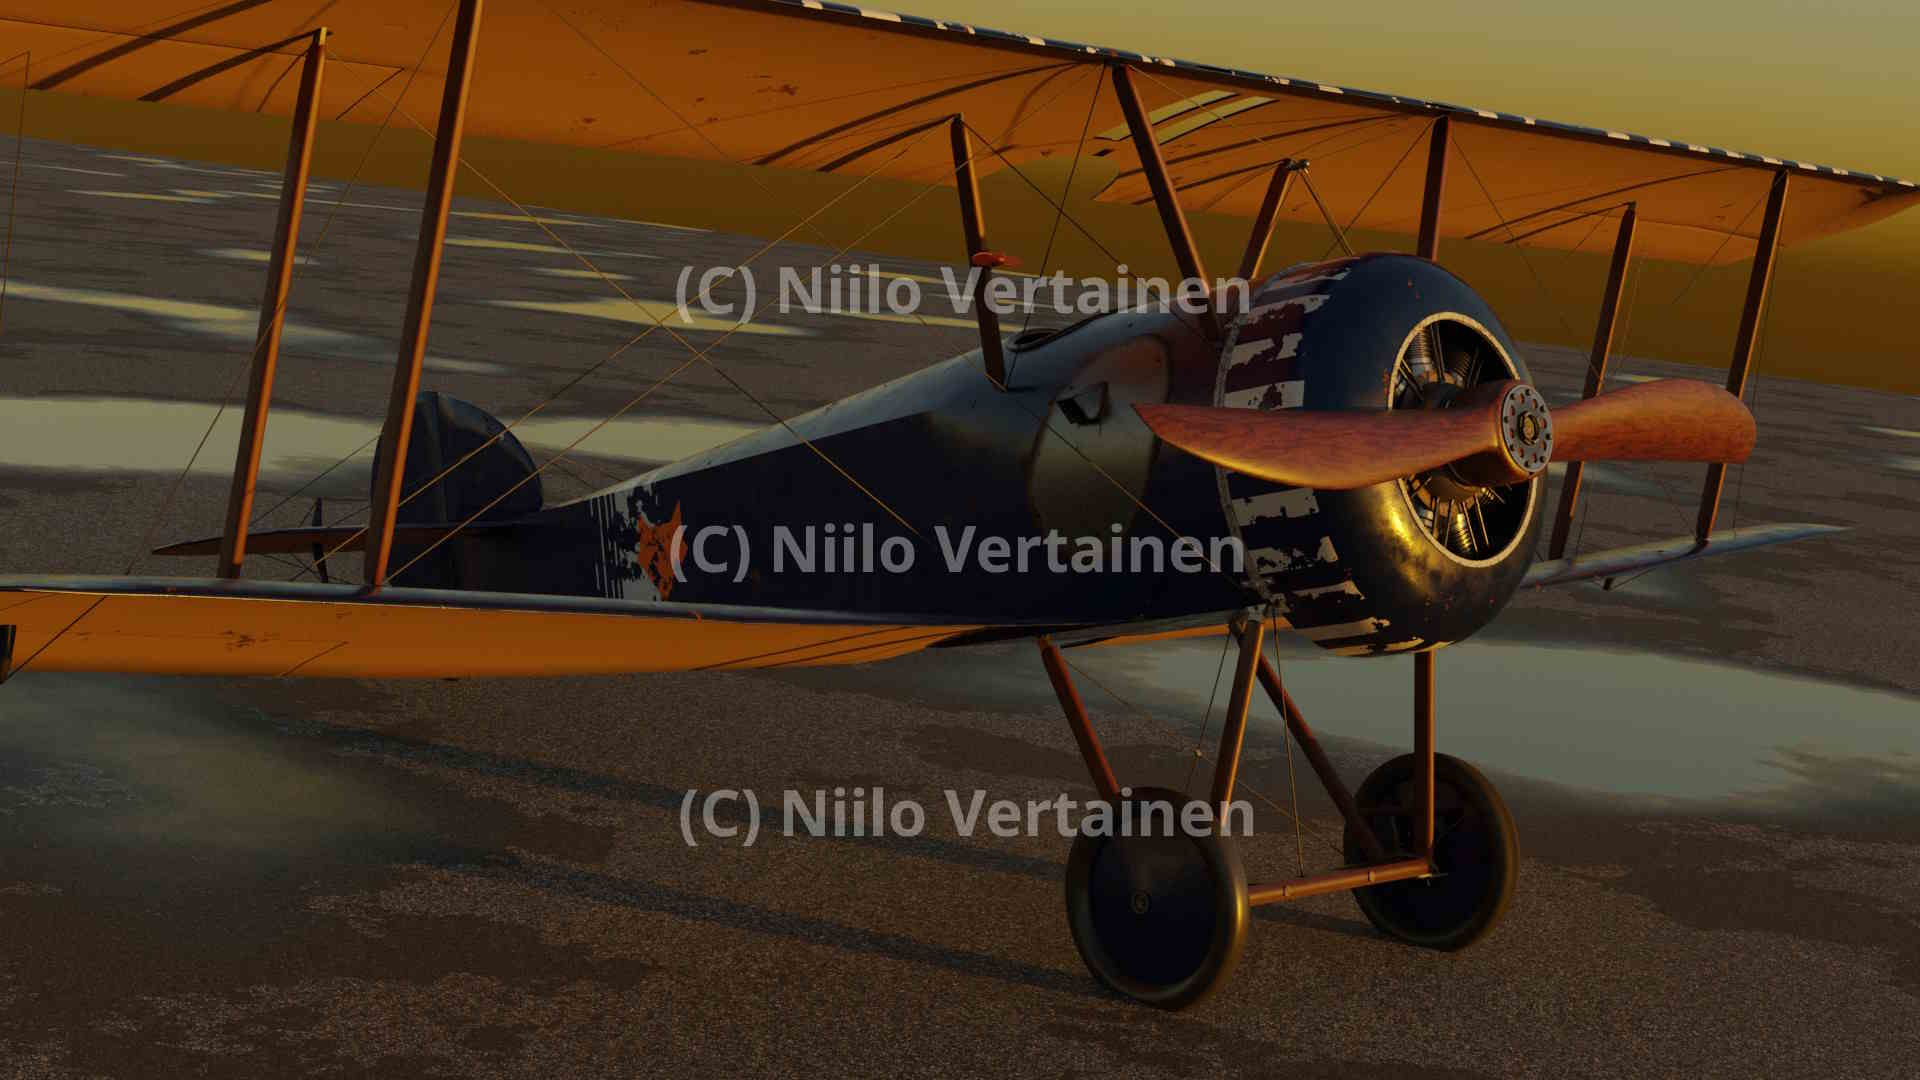
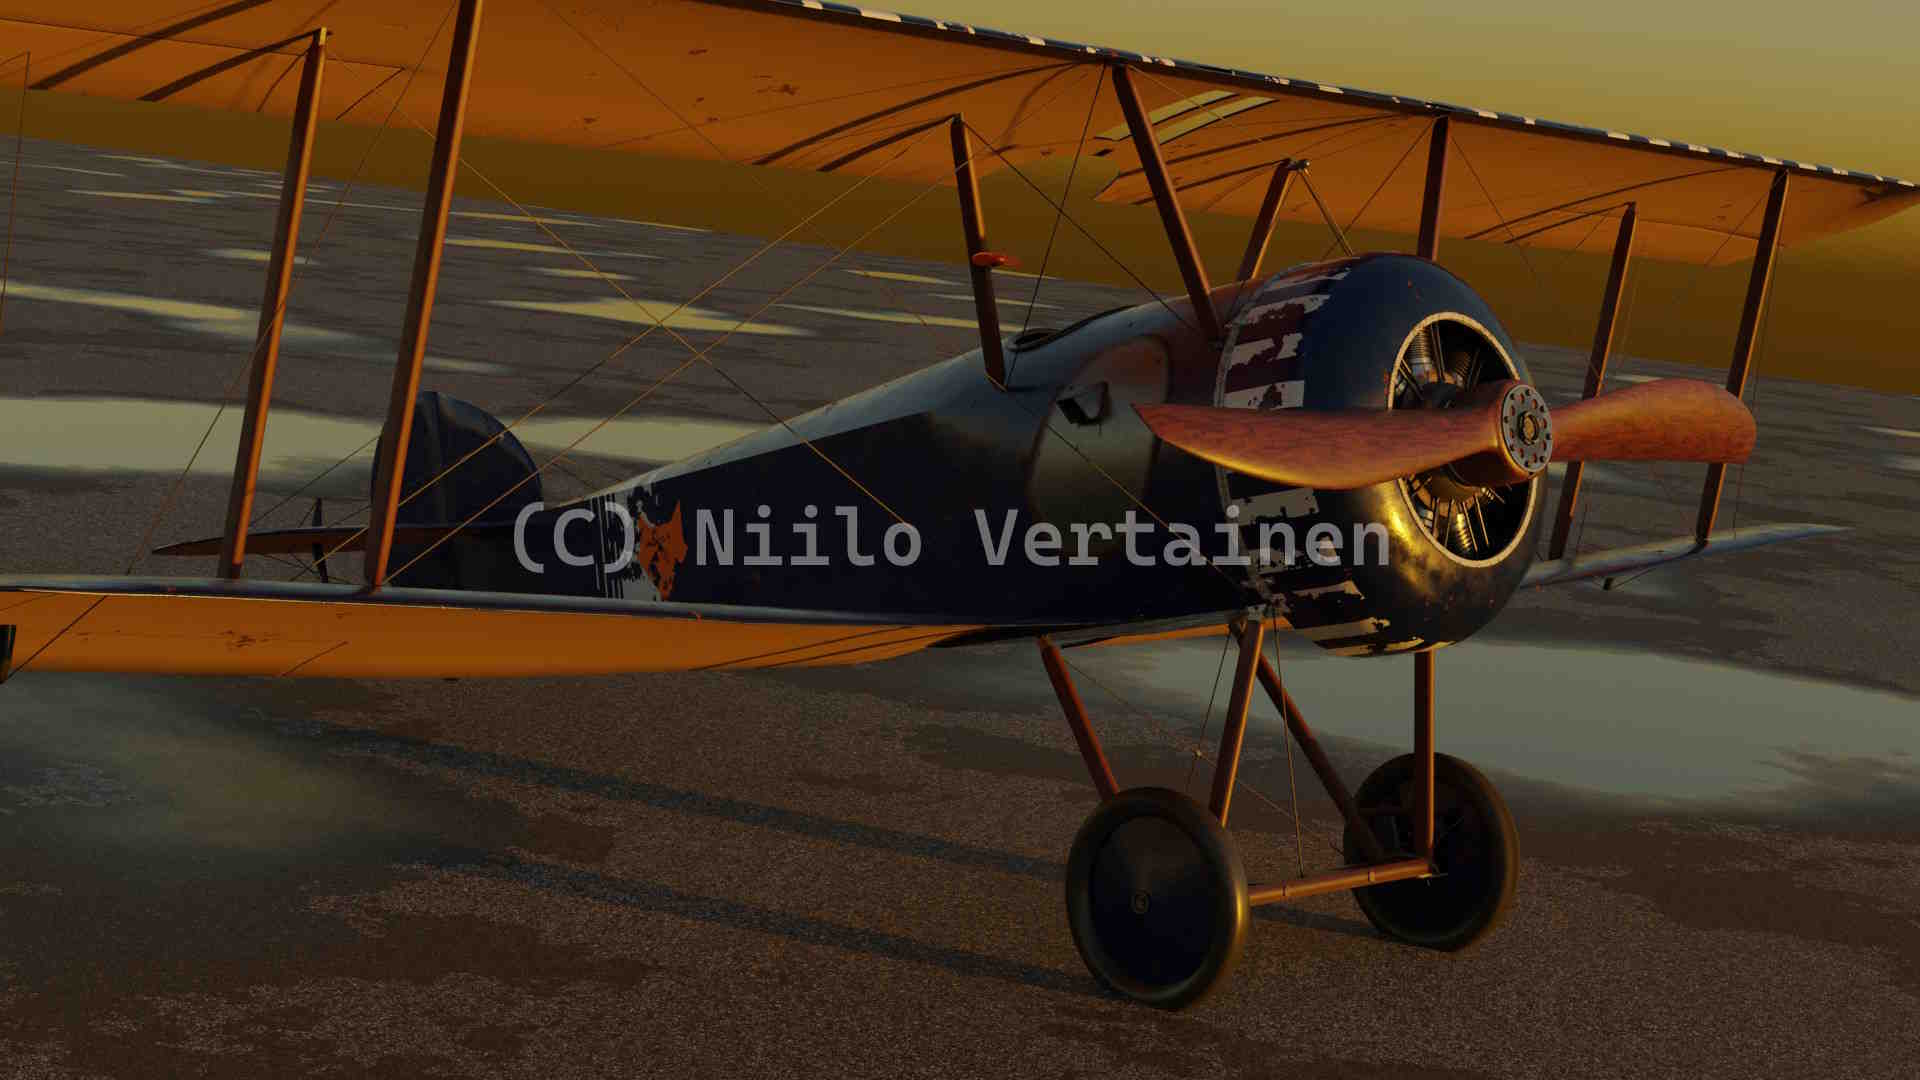
Background bug fix
Javascript adds old background image attributes after changing to smaller screen size. Also edited one background image watermark.

Changed region(s): [[0.25, 0.4583, 0.75, 0.55], [0.3438, 0.7333, 0.6562, 0.7944], [0.3438, 0.2444, 0.6562, 0.3056]]

diff --git a/script.js b/script.js
@@ -42,6 +42,10 @@ document.onscroll = function() {
 				background_img = curDiv.getAttribute("data-bg");
 				//console.log(curDiv.getAttribute("data-bg"));
 				document.body.style.backgroundImage = background_img;
+				document.body.style.backgroundRepeat = "no-repeat";
+				document.body.style.backgroundAttachment = "fixed";
+				document.body.style.backgroundPosition = "center";
+				document.body.style.backgroundSize = "cover";
 			}
 		}
 	} else {
